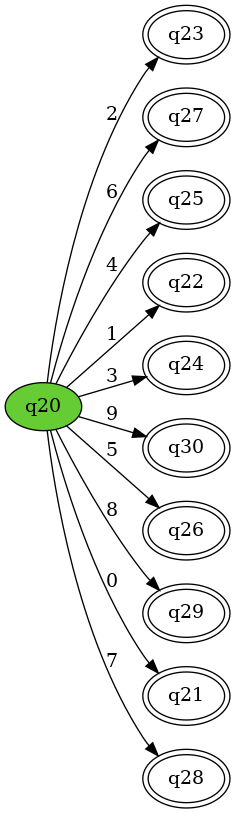
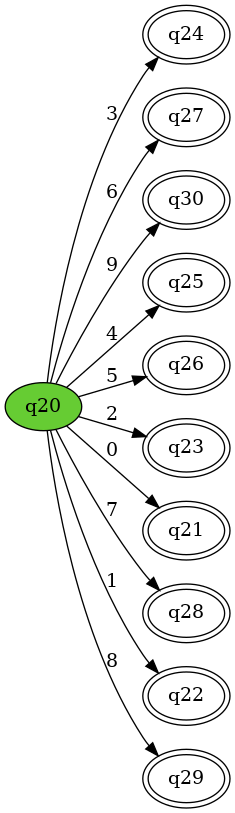
minimize concat

diff --git a/minicAutomaton.py b/minicAutomaton.py
@@ -14,17 +14,25 @@ simpleTokenList = [
 
 #Others : ['(', ')', 'identifier', 'float', 'number', '\', '\\n', '*']
 
-#identifier: ([a-z]|[A-Z])([a-z]|[A-Z]|[0-9])*
+#identifier: ([a-z]|[A-Z])(([a-z]|[A-Z]|[0-9])*)
 #number: ([0-9][0-9]*)
-#float: ([0-9][0-9]*).([0-9][0-9]*) 
+#float: ([0-9][0-9]*)(.)([0-9][0-9]*) 
 
 otherTokenList = []
 
-number = simplifyRegex.simplify("(([a-Z]|[A-Z])*)")
+number = simplifyRegex.simplify("([0-9][0-9]*)")
 otherTokenList.append(number)
 
+identifier = simplifyRegex.simplify("(([a-z]|[A-Z])(([a-z]|[A-Z]|[0-9])*))")
+otherTokenList.append(identifier)
+
+float = simplifyRegex.simplify("([0-9]([0-9]*))")
+otherTokenList.append(float)
+
+test = [float]
+
 count = 0
-for i in otherTokenList:
+for i in test:
     newRegexTree = regexTree([], [])
     automaton_generation.buildRegexTree(i, newRegexTree)
     newRegexTree.value = i
@@ -33,6 +41,6 @@ for i in otherTokenList:
     automaton_generation.removeEmpty(a)
     print(a)
     
-    # a.showVisualDFA("./test" + str(count) + ".png")
+    a.showVisualDFA("./test" + str(count) + ".png")
     count += 1
 

diff --git a/automaton_generation.py b/automaton_generation.py
@@ -331,13 +331,14 @@ def concat(a, b, finalAStates):
     startBState = b.initialState
     a.showVisualDFA("./a.png")
     b.showVisualDFA("./b.png")
-
-
+    
+    mapBToConcat = {} #Keep track of which state from B new states in concat automaton refers to
+    
     for i in finalAStates:
         print(i)
         i.final = i.final and startBState.final
         #First step is to build, b from each finalStateFromA
-        mapBToConcat = {} #Keep track of which state from B new states in concat automaton refers to
+        
         mapBToConcat[startBState.name] = i
         #Add first state from A aswell
         mapBToConcat[i.name] = i
